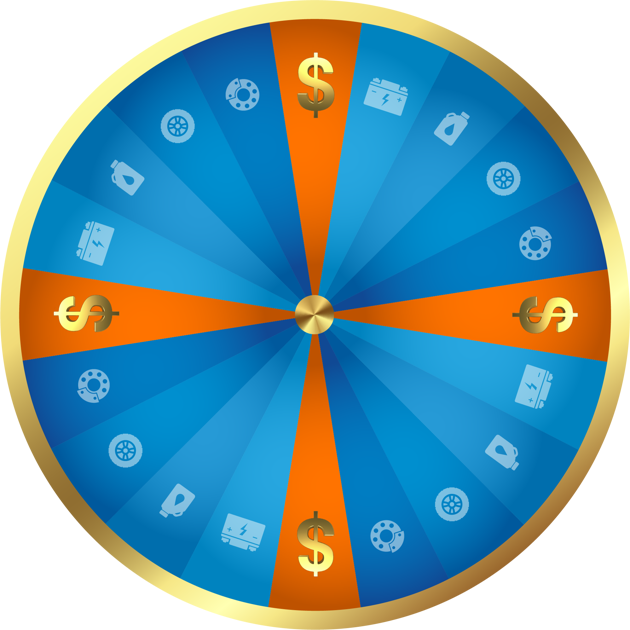
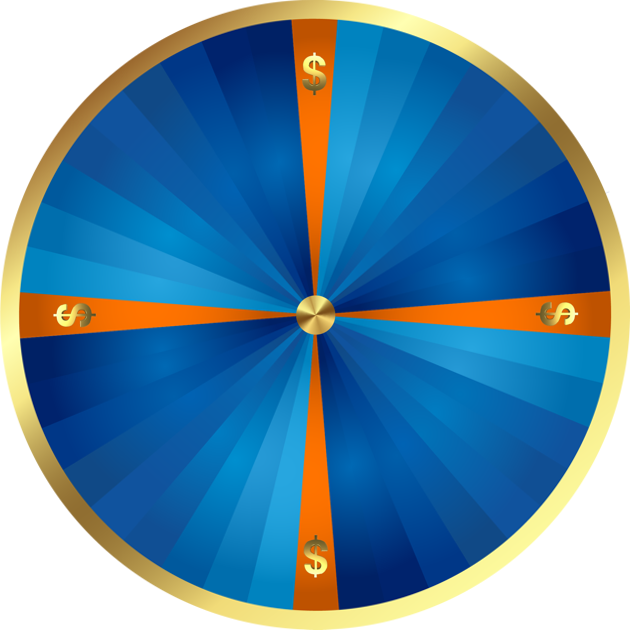
1. Ruleta de 40 espacios

diff --git a/public/src/mobile/scenes/game.js b/public/src/mobile/scenes/game.js
@@ -1,10 +1,15 @@
 let width, height, mContext;
 let ruleta, puntero, spinButton, tempButton, bars, bglight;
 // Divisiones de la ruleta
-let divisiones = 20, circumference = 260;
+let divisiones = 40, circumference = 260;
 
 let premios = [
     {'arte': '50mil', 'codigo': 103},
+    {'arte': 'sigue-intentando', 'codigo': 555},
+    {'arte': 'sigue-intentando', 'codigo': 555},
+    {'arte': 'sigue-intentando', 'codigo': 555},
+    {'arte': 'sigue-intentando', 'codigo': 555},
+    {'arte': 'sigue-intentando', 'codigo': 555},
     {'arte': 'sigue-intentando', 'codigo': 555},
     {'arte': 'sigue-intentando', 'codigo': 555},
     {'arte': 'sigue-intentando', 'codigo': 555},
@@ -14,13 +19,28 @@ let premios = [
     {'arte': 'sigue-intentando', 'codigo': 555},
     {'arte': 'sigue-intentando', 'codigo': 555},
     {'arte': 'sigue-intentando', 'codigo': 555},
-    {'arte': '20mil', 'codigo': 101},
+    {'arte': 'sigue-intentando', 'codigo': 555},
+    {'arte': 'sigue-intentando', 'codigo': 555},
+    {'arte': 'sigue-intentando', 'codigo': 555},
+    {'arte': 'sigue-intentando', 'codigo': 555},
+    {'arte': 'sigue-intentando', 'codigo': 555},
     // {'arte': '100mil', 'codigo': 104},
+    {'arte': '20mil', 'codigo': 101},
+    {'arte': 'sigue-intentando', 'codigo': 555},
+    {'arte': 'sigue-intentando', 'codigo': 555},
+    {'arte': 'sigue-intentando', 'codigo': 555},
+    {'arte': 'sigue-intentando', 'codigo': 555},
+    {'arte': 'sigue-intentando', 'codigo': 555},
     {'arte': 'sigue-intentando', 'codigo': 555},
     {'arte': 'sigue-intentando', 'codigo': 555},
     {'arte': 'sigue-intentando', 'codigo': 555},
     {'arte': 'sigue-intentando', 'codigo': 555},
     {'arte': '20mil', 'codigo': 101},
+    {'arte': 'sigue-intentando', 'codigo': 555},
+    {'arte': 'sigue-intentando', 'codigo': 555},
+    {'arte': 'sigue-intentando', 'codigo': 555},
+    {'arte': 'sigue-intentando', 'codigo': 555},
+    {'arte': 'sigue-intentando', 'codigo': 555},
     {'arte': 'sigue-intentando', 'codigo': 555},
     {'arte': 'sigue-intentando', 'codigo': 555},
     {'arte': 'sigue-intentando', 'codigo': 555},
@@ -65,11 +85,11 @@ export class Game extends Phaser.Scene {
             spinButton.setScale(1);
         });
 
-        bars.forEach((elem) => {
-            elem.on('pointerdown', function (pointer){
-                alert(elem.premio);
-            });
-        });
+        // bars.forEach((elem) => {
+        //     elem.on('pointerdown', function (pointer){
+        //         alert(elem.premio.arte);
+        //     });
+        // });
 
     }
 
@@ -119,7 +139,7 @@ export class Game extends Phaser.Scene {
             elem = context.physics.add.sprite(0, 0, 'rectangle');
             elem.premio = premios[cont];
             // elem.visible = false;
-            // elem.setInteractive();
+            elem.setInteractive();
             bars.push(elem);
             cont++;
         }

diff --git a/public/src/desk/scenes/game.js b/public/src/desk/scenes/game.js
@@ -1,10 +1,15 @@
 let width, height, mContext;
 let ruleta, puntero, spinButton, tempButton, bars, bglight;
 // Divisiones de la ruleta
-let divisiones = 20, circumference = 260;
+let divisiones = 40, circumference = 260;
 
 let premios = [
     {'arte': '50mil', 'codigo': 103},
+    {'arte': 'sigue-intentando', 'codigo': 555},
+    {'arte': 'sigue-intentando', 'codigo': 555},
+    {'arte': 'sigue-intentando', 'codigo': 555},
+    {'arte': 'sigue-intentando', 'codigo': 555},
+    {'arte': 'sigue-intentando', 'codigo': 555},
     {'arte': 'sigue-intentando', 'codigo': 555},
     {'arte': 'sigue-intentando', 'codigo': 555},
     {'arte': 'sigue-intentando', 'codigo': 555},
@@ -14,13 +19,28 @@ let premios = [
     {'arte': 'sigue-intentando', 'codigo': 555},
     {'arte': 'sigue-intentando', 'codigo': 555},
     {'arte': 'sigue-intentando', 'codigo': 555},
-    {'arte': '20mil', 'codigo': 101},
+    {'arte': 'sigue-intentando', 'codigo': 555},
+    {'arte': 'sigue-intentando', 'codigo': 555},
+    {'arte': 'sigue-intentando', 'codigo': 555},
+    {'arte': 'sigue-intentando', 'codigo': 555},
+    {'arte': 'sigue-intentando', 'codigo': 555},
     // {'arte': '100mil', 'codigo': 104},
+    {'arte': '20mil', 'codigo': 101},
+    {'arte': 'sigue-intentando', 'codigo': 555},
+    {'arte': 'sigue-intentando', 'codigo': 555},
+    {'arte': 'sigue-intentando', 'codigo': 555},
+    {'arte': 'sigue-intentando', 'codigo': 555},
+    {'arte': 'sigue-intentando', 'codigo': 555},
     {'arte': 'sigue-intentando', 'codigo': 555},
     {'arte': 'sigue-intentando', 'codigo': 555},
     {'arte': 'sigue-intentando', 'codigo': 555},
     {'arte': 'sigue-intentando', 'codigo': 555},
     {'arte': '20mil', 'codigo': 101},
+    {'arte': 'sigue-intentando', 'codigo': 555},
+    {'arte': 'sigue-intentando', 'codigo': 555},
+    {'arte': 'sigue-intentando', 'codigo': 555},
+    {'arte': 'sigue-intentando', 'codigo': 555},
+    {'arte': 'sigue-intentando', 'codigo': 555},
     {'arte': 'sigue-intentando', 'codigo': 555},
     {'arte': 'sigue-intentando', 'codigo': 555},
     {'arte': 'sigue-intentando', 'codigo': 555},

diff --git a/public/src/mobile/scenes/preloader.js b/public/src/mobile/scenes/preloader.js
@@ -30,7 +30,7 @@ export class Preloader extends Phaser.Scene {
         this.load.image('sigue-intentando', '/popup/sigue_intentando.png');
 
         let rect2 = this.make.graphics().fillStyle(0xFFFFFF).fillRect(50, 50, 150, 25);
-        rect2.generateTexture('rectangle', 84, 25);
+        rect2.generateTexture('rectangle', 40, 25);
     }
 
     create ()

diff --git a/public/src/desk/scenes/preloader.js b/public/src/desk/scenes/preloader.js
@@ -32,7 +32,7 @@ export class Preloader extends Phaser.Scene {
         this.load.audio('win-sound', '/sound/tada.mp3');
 
         let rect2 = this.make.graphics().fillStyle(0xFFFFFF).fillRect(50, 50, 150, 25);
-        rect2.generateTexture('rectangle', 84, 25);
+        rect2.generateTexture('rectangle', 40, 25);
     }
 
     create ()

diff --git a/public/src/mobile/main.js b/public/src/mobile/main.js
@@ -18,7 +18,7 @@ const config = {
         default: 'arcade',
         arcade: {
             // gravity: { y: 1000 },
-            debug: true
+            // debug: true
         }
     },
     transparent: true

diff --git a/app/Http/Middleware/GeoLocation.php b/app/Http/Middleware/GeoLocation.php
@@ -27,7 +27,7 @@ class GeoLocation
             return abort(404);
         }
 
-        // Pais - 
+        // Pais -
 
         return $next($request);
     }
